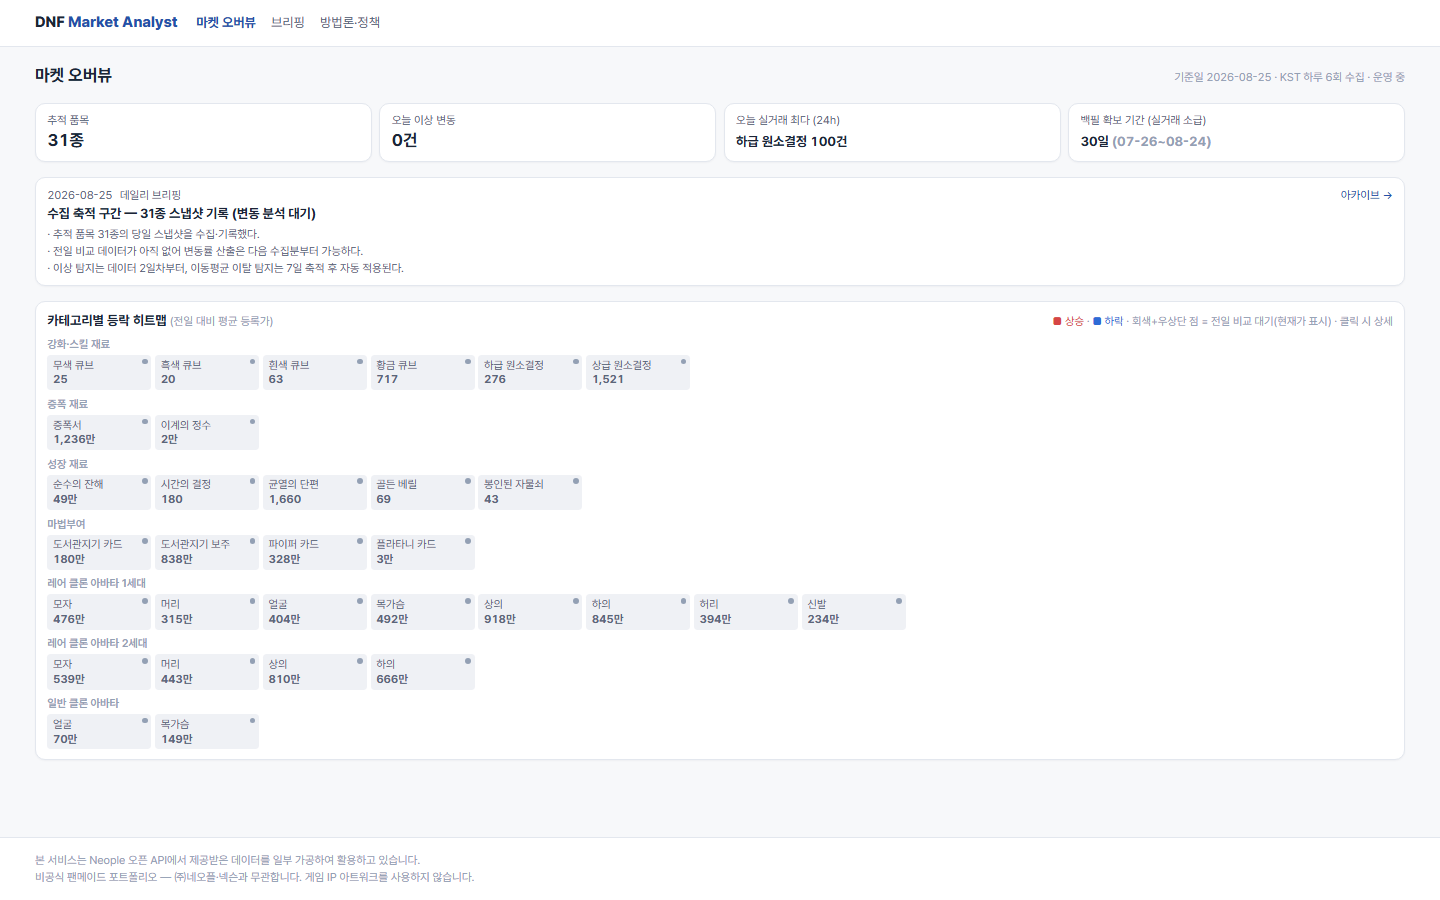
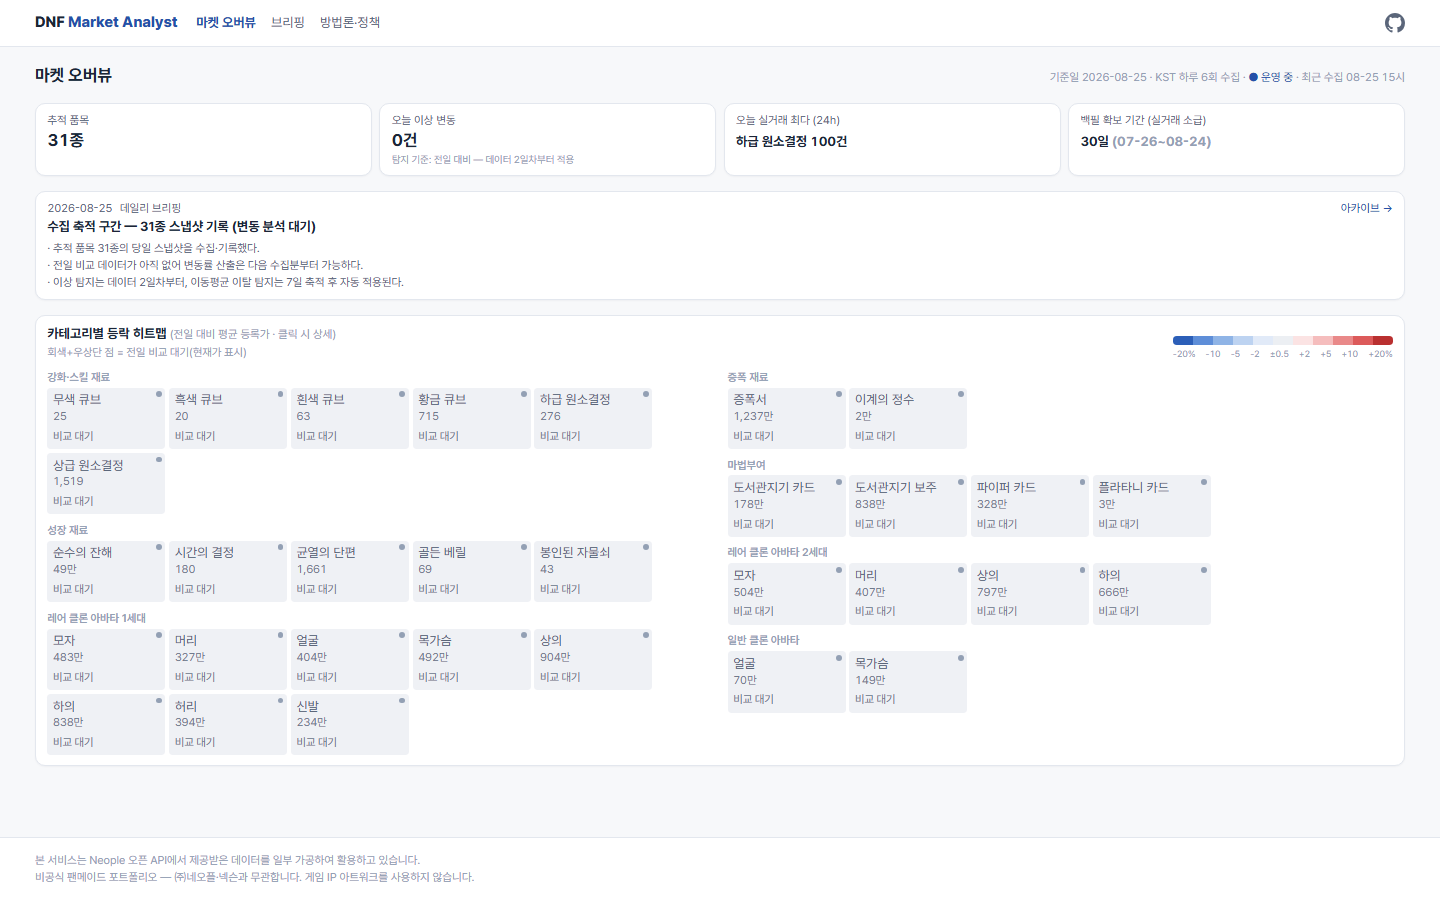
[phase-4] 히트맵 시각 개선 2차 — 그라데이션 스케일·타일 가독성·2컬럼 배치
- 등락 색상: 보합(±0.5%) + 방향별 5단계 CSS 변수 스케일 (연분홍→딥레드 / 연블루→딥블루),
  최심 단계만 흰 텍스트(WCAG AA), 범례 그라데이션 바를 오버뷰·방법론에 표시
- 타일 3줄 구조 [품목명 13px / 가격 12px / 등락률 15px bold], 부호 항상 표기(+4.2%)
- 2컬럼 그룹 배치(좌: 강화·성장·레어1세대 / 우: 증폭·마법부여·레어2세대·일반) — 우측 공백 제거
- KPI 0건 보조 문구, 헤더에 최근 수집 시각·GitHub 아이콘
- dev/preview-heatmap.html: 더미 -25~+25% 스윕 + 경계값 시각 검증 페이지 (배포 제외)
- 검증: 31타일 한 화면 수납 PASS, 정합성 13/13, 콘솔 0건

diff --git a/dashboard/src/pages/Overview.jsx b/dashboard/src/pages/Overview.jsx
@@ -1,28 +1,49 @@
-// 화면 1 — 마켓 오버뷰: KPI, 카테고리 히트맵(촘촘한 타일 그리드), 최신 브리핑
+// 화면 1 — 마켓 오버뷰: KPI, 카테고리 히트맵(2컬럼 그룹 배치), 최신 브리핑
 import { useState } from "react";
 import { Link, useNavigate } from "react-router-dom";
-import { dodChanges, latestDate, fmtGold, fmtPct, pctColor } from "../lib/data";
+import {
+  dodChanges, latestDate, fmtGold, fmtPct, fmtSignedPct, heatColor,
+  lastCollectedLabel, pctColor,
+} from "../lib/data";
 import { Change, Empty } from "../components/ui";
+import HeatLegend from "../components/HeatLegend";
 
-function Kpi({ label, children }) {
+function Kpi({ label, caption, children }) {
   return (
     <div className="card px-3 py-2.5">
       <div className="text-xs" style={{ color: "var(--text-secondary)" }}>{label}</div>
       <div className="mt-0.5 text-lg font-bold num leading-tight">{children}</div>
+      {caption && <div className="mt-0.5 text-[10px] leading-tight" style={{ color: "var(--text-muted)" }}>{caption}</div>}
     </div>
   );
 }
 
-/** 등락 5단계 배경: 방향(레드/블루) × 강도(|pct| 구간별 투명도) */
-function cellStyle(pct) {
-  if (pct == null) return { background: "#EFF1F5", color: "var(--text-secondary)" };
-  const a = Math.abs(pct) < 2 ? 0.10 : Math.abs(pct) < 5 ? 0.25 : Math.abs(pct) < 10 ? 0.45
-    : Math.abs(pct) < 20 ? 0.65 : 0.85;
-  const rgb = pct >= 0 ? "214,69,69" : "46,107,214";
-  return { background: `rgba(${rgb},${a})`, color: a > 0.45 ? "#fff" : "var(--text-primary)" };
+// 2컬럼 그룹 배치: 좌(강화·스킬/성장/레어 1세대), 우(증폭/마법부여/레어 2세대/일반)
+const LEFT_GROUPS = ["강화·스킬 재료", "성장 재료", "레어 클론 아바타 1세대"];
+
+function Tile({ c, it, onEnter, onLeave, onClick }) {
+  const noCompare = c.changePct == null;
+  const { bg, fg } = heatColor(c.changePct);
+  return (
+    <button
+      onClick={onClick} onMouseEnter={onEnter} onMouseLeave={onLeave}
+      className="relative w-[118px] shrink-0 cursor-pointer rounded px-1.5 py-1 text-left"
+      style={{ background: bg, color: fg }}
+    >
+      <div className="truncate text-[13px] leading-snug">{it?.shortName ?? c.name}</div>
+      <div className="num text-xs leading-snug" style={{ opacity: 0.85 }}>{fmtGold(c.avgPrice)}</div>
+      <div className="num text-[15px] font-bold leading-snug">
+        {noCompare ? <span className="text-[11px] font-medium" style={{ opacity: 0.8 }}>비교 대기</span> : fmtSignedPct(c.changePct)}
+      </div>
+      {noCompare && (
+        <span className="absolute right-1 top-1 h-1.5 w-1.5 rounded-full"
+              style={{ background: "var(--text-muted)" }} title="전일 비교 대기" />
+      )}
+    </button>
+  );
 }
 
-function Heatmap({ changes, items, llBelow, backfillDays }) {
+function Heatmap({ changes, items, llBelow }) {
   const navigate = useNavigate();
   const [tip, setTip] = useState(null); // {x, y, c}
   const byId = Object.fromEntries(items.map((it) => [it.itemId, it]));
@@ -34,6 +55,8 @@ function Heatmap({ changes, items, llBelow, backfillDays }) {
     if (last?.name === g) last.cells.push(c);
     else groups.push({ name: g, cells: [c] });
   }
+  const left = groups.filter((g) => LEFT_GROUPS.includes(g.name));
+  const right = groups.filter((g) => !LEFT_GROUPS.includes(g.name));
 
   const onEnter = (e, c) => {
     const wrap = e.currentTarget.closest("[data-heat]").getBoundingClientRect();
@@ -41,52 +64,39 @@ function Heatmap({ changes, items, llBelow, backfillDays }) {
     setTip({ x: r.left - wrap.left + r.width / 2, y: r.top - wrap.top, c });
   };
 
+  const renderGroups = (list) => (
+    <div className="space-y-2">
+      {list.map((g) => (
+        <div key={g.name}>
+          <div className="mb-0.5 text-[11px] font-semibold" style={{ color: "var(--text-muted)" }}>{g.name}</div>
+          <div className="flex flex-wrap gap-1 max-sm:flex-nowrap max-sm:overflow-x-auto max-sm:pb-1">
+            {g.cells.map((c) => (
+              <Tile key={c.itemId} c={c} it={byId[c.itemId]}
+                    onClick={() => navigate(`/item/${c.itemId}`)}
+                    onEnter={(e) => onEnter(e, c)} onLeave={() => setTip(null)} />
+            ))}
+          </div>
+        </div>
+      ))}
+    </div>
+  );
+
   return (
     <div className="relative" data-heat>
-      <div className="space-y-1.5">
-        {groups.map((g) => (
-          <div key={g.name}>
-            <div className="mb-0.5 text-[11px] font-semibold" style={{ color: "var(--text-muted)" }}>{g.name}</div>
-            <div className="flex flex-wrap gap-1 max-sm:flex-nowrap max-sm:overflow-x-auto max-sm:pb-1">
-              {g.cells.map((c) => {
-                const it = byId[c.itemId];
-                const noCompare = c.changePct == null;
-                return (
-                  <button
-                    key={c.itemId}
-                    onClick={() => navigate(`/item/${c.itemId}`)}
-                    onMouseEnter={(e) => onEnter(e, c)}
-                    onMouseLeave={() => setTip(null)}
-                    className="relative w-[104px] shrink-0 cursor-pointer rounded px-1.5 py-1 text-left"
-                    style={cellStyle(c.changePct)}
-                  >
-                    <div className="truncate text-[11px] leading-tight">{it?.shortName ?? c.name}</div>
-                    <div className="num text-xs font-bold leading-tight">
-                      {noCompare
-                        ? fmtGold(c.avgPrice)
-                        : `${c.changePct > 0 ? "▲" : c.changePct < 0 ? "▼" : ""}${Math.abs(c.changePct).toFixed(1)}%`}
-                    </div>
-                    {noCompare && (
-                      <span className="absolute right-1 top-1 h-1.5 w-1.5 rounded-full"
-                            style={{ background: "var(--text-muted)" }} title="전일 비교 대기" />
-                    )}
-                  </button>
-                );
-              })}
-            </div>
-          </div>
-        ))}
+      <div className="grid gap-x-4 gap-y-2 sm:grid-cols-2">
+        {renderGroups(left)}
+        {renderGroups(right)}
       </div>
 
       {tip && (
         <div className="card pointer-events-none absolute z-10 px-2.5 py-1.5 text-xs"
-             style={{ left: Math.max(0, Math.min(tip.x - 90, 1160)), top: tip.y - 86, width: 200 }}>
+             style={{ left: Math.max(0, Math.min(tip.x - 90, 1160)), top: Math.max(0, tip.y - 92), width: 200 }}>
           <div className="font-semibold">{tip.c.name}</div>
           <div className="mt-0.5 flex justify-between"><span style={{ color: "var(--text-secondary)" }}>등록 평균가</span><span className="num">{fmtGold(tip.c.avgPrice)}</span></div>
           <div className="flex justify-between">
             <span style={{ color: "var(--text-secondary)" }}>전일 대비</span>
             {tip.c.changePct == null
-              ? <span style={{ color: "var(--text-muted)" }}>비교 대기{backfillDays ? "" : ""}</span>
+              ? <span style={{ color: "var(--text-muted)" }}>비교 대기</span>
               : <span className="num font-semibold" style={{ color: pctColor(tip.c.changePct) }}>{fmtPct(tip.c.changePct)}</span>}
           </div>
           <div className="flex justify-between">
@@ -110,6 +120,7 @@ export default function Overview({ data }) {
   const latestBriefing = briefings[0];
   const llBelow = thresholds?.lowLiquidity?.listingCountBelow ?? 0;
   const hasCompare = withChange.length > 0;
+  const lastCollected = lastCollectedLabel(rows);
 
   // 비교 불가 구간 대체 KPI: 오늘 실거래 최다 / 백필 확보 기간 (데이터 생기면 자동 전환)
   const byId = Object.fromEntries(items.map((it) => [it.itemId, it]));
@@ -135,13 +146,17 @@ export default function Overview({ data }) {
     <div className="space-y-4">
       <div className="flex items-baseline justify-between flex-wrap gap-2">
         <h1 className="text-lg font-bold">마켓 오버뷰</h1>
-        <span className="text-xs num" style={{ color: "var(--text-muted)" }}>기준일 {date ?? "—"} · KST 하루 6회 수집 · 운영 중</span>
+        <span className="text-xs num" style={{ color: "var(--text-muted)" }}>
+          기준일 {date ?? "—"} · KST 하루 6회 수집 · <span style={{ color: "var(--accent)" }}>● 운영 중</span>
+          {lastCollected && <> · 최근 수집 {lastCollected}</>}
+        </span>
       </div>
 
       {/* KPI */}
       <div className="grid grid-cols-2 gap-2 sm:grid-cols-4">
         <Kpi label="추적 품목">{items.length}종</Kpi>
-        <Kpi label="오늘 이상 변동">
+        <Kpi label="오늘 이상 변동"
+             caption={todayAnomalies.length === 0 ? "탐지 기준: 전일 대비 — 데이터 2일차부터 적용" : null}>
           <span style={{ color: todayAnomalies.length ? "var(--warn)" : "var(--text-primary)" }}>
             {todayAnomalies.length}건
           </span>
@@ -194,13 +209,14 @@ export default function Overview({ data }) {
 
       {/* 히트맵 */}
       <div className="card px-3 py-2.5">
-        <div className="mb-1.5 flex items-baseline justify-between flex-wrap gap-1">
-          <h2 className="text-sm font-bold">카테고리별 등락 히트맵 <span className="font-normal text-xs" style={{ color: "var(--text-muted)" }}>(전일 대비 평균 등록가)</span></h2>
-          <span className="text-[11px]" style={{ color: "var(--text-muted)" }}>
-            <span style={{ color: "var(--up)" }}>■ 상승</span> · <span style={{ color: "var(--down)" }}>■ 하락</span> · 회색+우상단 점 = 전일 비교 대기(현재가 표시) · 클릭 시 상세
-          </span>
+        <div className="mb-2 flex items-end justify-between flex-wrap gap-2">
+          <div>
+            <h2 className="text-sm font-bold">카테고리별 등락 히트맵 <span className="font-normal text-xs" style={{ color: "var(--text-muted)" }}>(전일 대비 평균 등록가 · 클릭 시 상세)</span></h2>
+            <div className="text-[11px]" style={{ color: "var(--text-muted)" }}>회색+우상단 점 = 전일 비교 대기(현재가 표시)</div>
+          </div>
+          <HeatLegend />
         </div>
-        <Heatmap changes={changes} items={items} llBelow={llBelow} backfillDays={bfDays} />
+        <Heatmap changes={changes} items={items} llBelow={llBelow} />
       </div>
     </div>
   );

diff --git a/dashboard/src/lib/data.js b/dashboard/src/lib/data.js
@@ -160,3 +160,30 @@ export function pctColor(v) {
   if (v == null || v === 0) return "var(--neutral)";
   return v > 0 ? "var(--up)" : "var(--down)";
 }
+
+/** 히트맵 색상 스케일: 보합(±0.5% 미만) + 방향별 5단계.
+ *  흰 텍스트는 최심 단계(5)에서만 — 1~4단계는 딥 네이비 텍스트로 WCAG AA 유지. */
+export const HEAT_BOUNDS = [0.5, 2, 5, 10, 20];
+export function heatColor(pct) {
+  if (pct == null) return { bg: "#EFF1F5", fg: "var(--text-secondary)" };
+  const a = Math.abs(pct);
+  if (a < HEAT_BOUNDS[0]) return { bg: "var(--heat-flat)", fg: "var(--text-primary)" };
+  const lv = a < 2 ? 1 : a < 5 ? 2 : a < 10 ? 3 : a < 20 ? 4 : 5;
+  const dir = pct > 0 ? "up" : "down";
+  return { bg: `var(--heat-${dir}-${lv})`, fg: lv >= 5 ? "#FFFFFF" : "var(--text-primary)" };
+}
+
+/** 부호 항상 표기 등락률: +4.2% / -3.1% (색만으로 전달 금지) */
+export function fmtSignedPct(v) {
+  if (v == null) return "—";
+  return `${v > 0 ? "+" : v < 0 ? "-" : "±"}${Math.abs(v).toFixed(1)}%`;
+}
+
+/** 최근 수집 라벨: 최신 (date, slot) → "08-25 15시" */
+export function lastCollectedLabel(rows) {
+  if (!rows.length) return null;
+  const hour = (s) => (s.startsWith("h") ? parseInt(s.slice(1), 10) : { night: 3, am: 9, pm: 15 }[s] ?? 0);
+  const last = rows.reduce((a, b) =>
+    a.date !== b.date ? (a.date > b.date ? a : b) : hour(a.slot) >= hour(b.slot) ? a : b);
+  return `${last.date.slice(5)} ${slotLabel(last.slot)}`;
+}

diff --git a/dashboard/src/pages/Methodology.jsx b/dashboard/src/pages/Methodology.jsx
@@ -1,5 +1,6 @@
 // 화면 4 — 방법론·데이터 정책: 수집 구조, 이상 탐지 기준 공개, 품목 선정 근거, 출처 고지
 import { Link } from "react-router-dom";
+import HeatLegend from "../components/HeatLegend";
 
 function Box({ children, accent }) {
   return (
@@ -81,6 +82,10 @@ export default function Methodology({ data }) {
           <li>· 저유동 보정: 매물 {ll.listingCountBelow}건 미만 품목은 당일 연속 {ll.minConsecutiveSlots}슬롯 지속 변동일 때만 "중간" 이상으로 분류하고, 화면에 <b>저유동</b> 뱃지로 해석 주의를 안내합니다.</li>
           <li>· 매물 {thresholds.guards.minListingCountForPriceSignal}건 미만이 이틀 연속이면 가격 신호 자체를 채택하지 않습니다. 이상 항목은 하루 최대 {thresholds.guards.maxAnomaliesPerDay}건.</li>
         </ul>
+        <div className="mt-3">
+          <div className="mb-1 text-xs font-semibold" style={{ color: "var(--text-secondary)" }}>오버뷰 히트맵 색상 스케일 (전일 대비, 보합 ±0.5% 미만)</div>
+          <HeatLegend width={300} />
+        </div>
       </section>
 
       {/* AI 해석 정책 */}

diff --git a/dashboard/src/App.jsx b/dashboard/src/App.jsx
@@ -55,6 +55,12 @@ export default function App() {
               </NavLink>
             ))}
           </nav>
+          <a href="https://github.com/Yegeon99/dnf-market-analyst" target="_blank" rel="noreferrer"
+             className="ml-auto" title="GitHub 저장소" aria-label="GitHub 저장소">
+            <svg viewBox="0 0 16 16" width="20" height="20" fill="var(--text-secondary)" aria-hidden="true">
+              <path d="M8 0C3.58 0 0 3.58 0 8c0 3.54 2.29 6.53 5.47 7.59.4.07.55-.17.55-.38 0-.19-.01-.82-.01-1.49-2.01.37-2.53-.49-2.69-.94-.09-.23-.48-.94-.82-1.13-.28-.15-.68-.52-.01-.53.63-.01 1.08.58 1.23.82.72 1.21 1.87.87 2.33.66.07-.52.28-.87.51-1.07-1.78-.2-3.64-.89-3.64-3.95 0-.87.31-1.59.82-2.15-.08-.2-.36-1.02.08-2.12 0 0 .67-.21 2.2.82.64-.18 1.32-.27 2-.27s1.36.09 2 .27c1.53-1.04 2.2-.82 2.2-.82.44 1.1.16 1.92.08 2.12.51.56.82 1.27.82 2.15 0 3.07-1.87 3.75-3.65 3.95.29.25.54.73.54 1.48 0 1.07-.01 1.93-.01 2.2 0 .21.15.46.55.38A8.01 8.01 0 0 0 16 8c0-4.42-3.58-8-8-8Z"/>
+            </svg>
+          </a>
         </div>
       </header>
 

diff --git a/dashboard/src/components/HeatLegend.jsx b/dashboard/src/components/HeatLegend.jsx
@@ -1,0 +1,20 @@
+// 히트맵 색상 범례: 그라데이션 바 + 구간 라벨 (오버뷰·방법론 공유)
+const STOPS = [
+  "var(--heat-down-5)", "var(--heat-down-4)", "var(--heat-down-3)", "var(--heat-down-2)", "var(--heat-down-1)",
+  "var(--heat-flat)",
+  "var(--heat-up-1)", "var(--heat-up-2)", "var(--heat-up-3)", "var(--heat-up-4)", "var(--heat-up-5)",
+];
+const LABELS = ["-20%", "-10", "-5", "-2", "±0.5", "+2", "+5", "+10", "+20%"];
+
+export default function HeatLegend({ width = 220 }) {
+  return (
+    <div style={{ width }}>
+      <div className="flex h-2.5 overflow-hidden rounded-sm" title="전일 대비 등락 색상 스케일">
+        {STOPS.map((c, i) => <span key={i} className="flex-1" style={{ background: c }} />)}
+      </div>
+      <div className="mt-0.5 flex justify-between text-[9px] num" style={{ color: "var(--text-muted)" }}>
+        {LABELS.map((l) => <span key={l}>{l}</span>)}
+      </div>
+    </div>
+  );
+}

diff --git a/dashboard/src/index.css b/dashboard/src/index.css
@@ -13,6 +13,19 @@
   --down: #2E6BD6;         /* 하락 (블루) */
   --neutral: #8A93A6;
   --warn: #C8891A;         /* 이상 변동 하이라이트 */
+
+  /* 히트맵 등락 스케일 (보합 ±0.5% 미만 + 방향별 5단계) — 방법론·범례와 공유 */
+  --heat-flat: #ECEFF3;
+  --heat-up-1: #FBE3E3;    /* 0.5~2% 연분홍 */
+  --heat-up-2: #F5BDBD;    /* 2~5% */
+  --heat-up-3: #E98989;    /* 5~10% */
+  --heat-up-4: #DC5A5A;    /* 10~20% */
+  --heat-up-5: #B93030;    /* 20%+ 딥레드 (흰 텍스트) */
+  --heat-down-1: #E1EAF8;
+  --heat-down-2: #BDD3F1;
+  --heat-down-3: #8FB4E6;
+  --heat-down-4: #5E8ED8;
+  --heat-down-5: #2C5FB8;  /* 20%+ 딥블루 (흰 텍스트) */
 }
 
 html {
